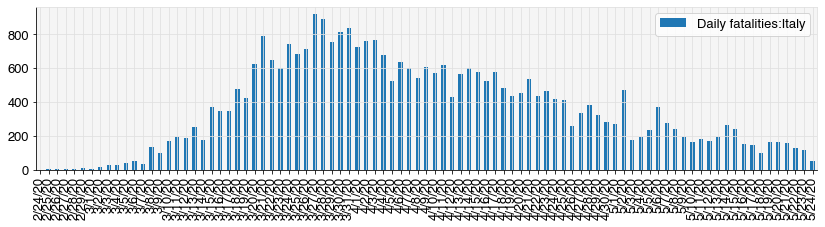
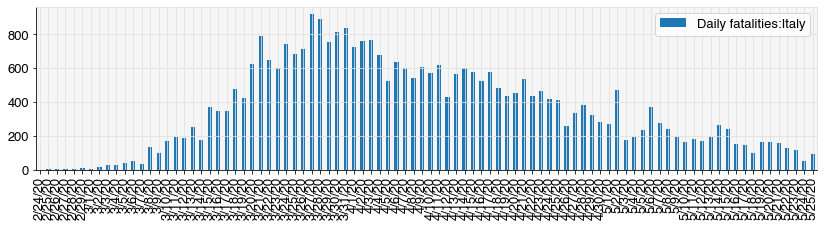
weekly crontab backup

Changed region(s): [[0.0606, 0.0617, 1.0, 0.9868]]

diff --git a/02 - Daily_Report_Italy.md b/02 - Daily_Report_Italy.md
@@ -20,12 +20,12 @@ from ne_epidemic.utilities import sir_prediction_from_country
 sir_prediction_from_country('Italy')
 ```
 
-    Today's date: 2020-05-25 
+    Today's date: 2020-05-26 
     
     Country:  Italy
     - Fatalities database:  https://raw.githubusercontent.com/CSSEGISandData/COVID-19/master/csse_covid_19_data/csse_covid_19_time_series/time_series_covid19_deaths_global.csv
     - First day with more than 5 casualties (m/d/y):  2 / 24 / 2020
-    - Days since first fatalities:  91
+    - Days since first fatalities:  92
 
 
 
@@ -36,8 +36,8 @@ sir_prediction_from_country('Italy')
 ![png](02%20-%20Daily_Report_Italy_files/02%20-%20Daily_Report_Italy_1_2.png)
 
 
-    - Last day with data: 5/24/20
-    - Italy fatalities to date: 32785
+    - Last day with data: 5/25/20
+    - Italy fatalities to date: 32877
      
     
     Model Initial parameters:
@@ -50,19 +50,19 @@ sir_prediction_from_country('Italy')
     day since start simulation: 27  => beta reduction factor: 0.61
     
     Fitting parameters N0 and beta
-    Initial loss: 485251
+    Initial loss: 488178
     Optimization terminated successfully.
-             Current function value: 2504.270973
-             Iterations: 73
-             Function evaluations: 141
+             Current function value: 2540.764088
+             Iterations: 79
+             Function evaluations: 151
     Estimated parameters:
-    N0: 39133
+    N0: 38965
     beta0 (contacts per day): 0.36
     R0: 1.78
     
-    Final loss: 2504
+    Final loss: 2540
     Initial/Final % loss: 0.52
-    Normalized Loss (per million persons, per day) 0.455 
+    Normalized Loss (per million persons, per day) 0.457 
     
     
     _____________________________________________________________________
@@ -71,8 +71,8 @@ sir_prediction_from_country('Italy')
     
     Model name: optimized 2 pars
     
-    Simulated days: 112.0
-    Initially infected/Total population (N0/N): 39133/60480000 (64.7 per 100,000)
+    Simulated days: 113.0
+    Initially infected/Total population (N0/N): 38965/60480000 (64.4 per 100,000)
     beta (per day): 0.4 , nu (per day): 0.2
     1/beta (days): 2.8 , 1/nu (days): 5.0
     IFR: 0.0016666666666666668
@@ -87,18 +87,18 @@ sir_prediction_from_country('Italy')
     
     _____________________________________________________________________
     
-    MODEL'S OUTPUTS FOR TODAY: 2020-05-25
-       Infected: 252619 (0.4%)
-       Recovered: 19462761 (32.2%)
-       Exposed to date: 19715380 (32.6%)
-       In ICU: 315
-       Fatalities: 32437
+    MODEL'S OUTPUTS FOR TODAY: 2020-05-26
+       Infected: 240194 (0.4%)
+       Recovered: 19523937 (32.3%)
+       Exposed to date: 19764131 (32.7%)
+       In ICU: 300
+       Fatalities: 32539
      
-    MEDIUM TERM FORECAST (112 days from model start date): 
+    MEDIUM TERM FORECAST (113 days from model start date): 
        Percent of population exposed at end simulation: 33%
        Peak ICU admissions:  2861  on day 2020-03-28
        (note model does not account for long ICU stays)
-       Total fatalities at end of simulation: 33500
+       Total fatalities at end of simulation: 33549
 
 
 
@@ -124,7 +124,7 @@ sir_prediction_from_country('Italy')
           The derivative of the quadratic is used to estimate doubling time and R(t).
     Rt estimated from doubling time using nu= 0.2
     
-    Run finished 2020-05-25 22:00:07.651244
+    Run finished 2020-05-26 22:00:28.868639
 
 
 

diff --git a/01 - Daily_Report_Spain.md b/01 - Daily_Report_Spain.md
@@ -126,5 +126,5 @@ sir_prediction_from_country('Spain')
           The derivative of the quadratic is used to estimate doubling time and R(t).
     Rt estimated from doubling time using nu= 0.2
     
-    Run finished 2020-05-26 07:20:51.138977
+    Run finished 2020-05-26 21:59:56.314553
 
